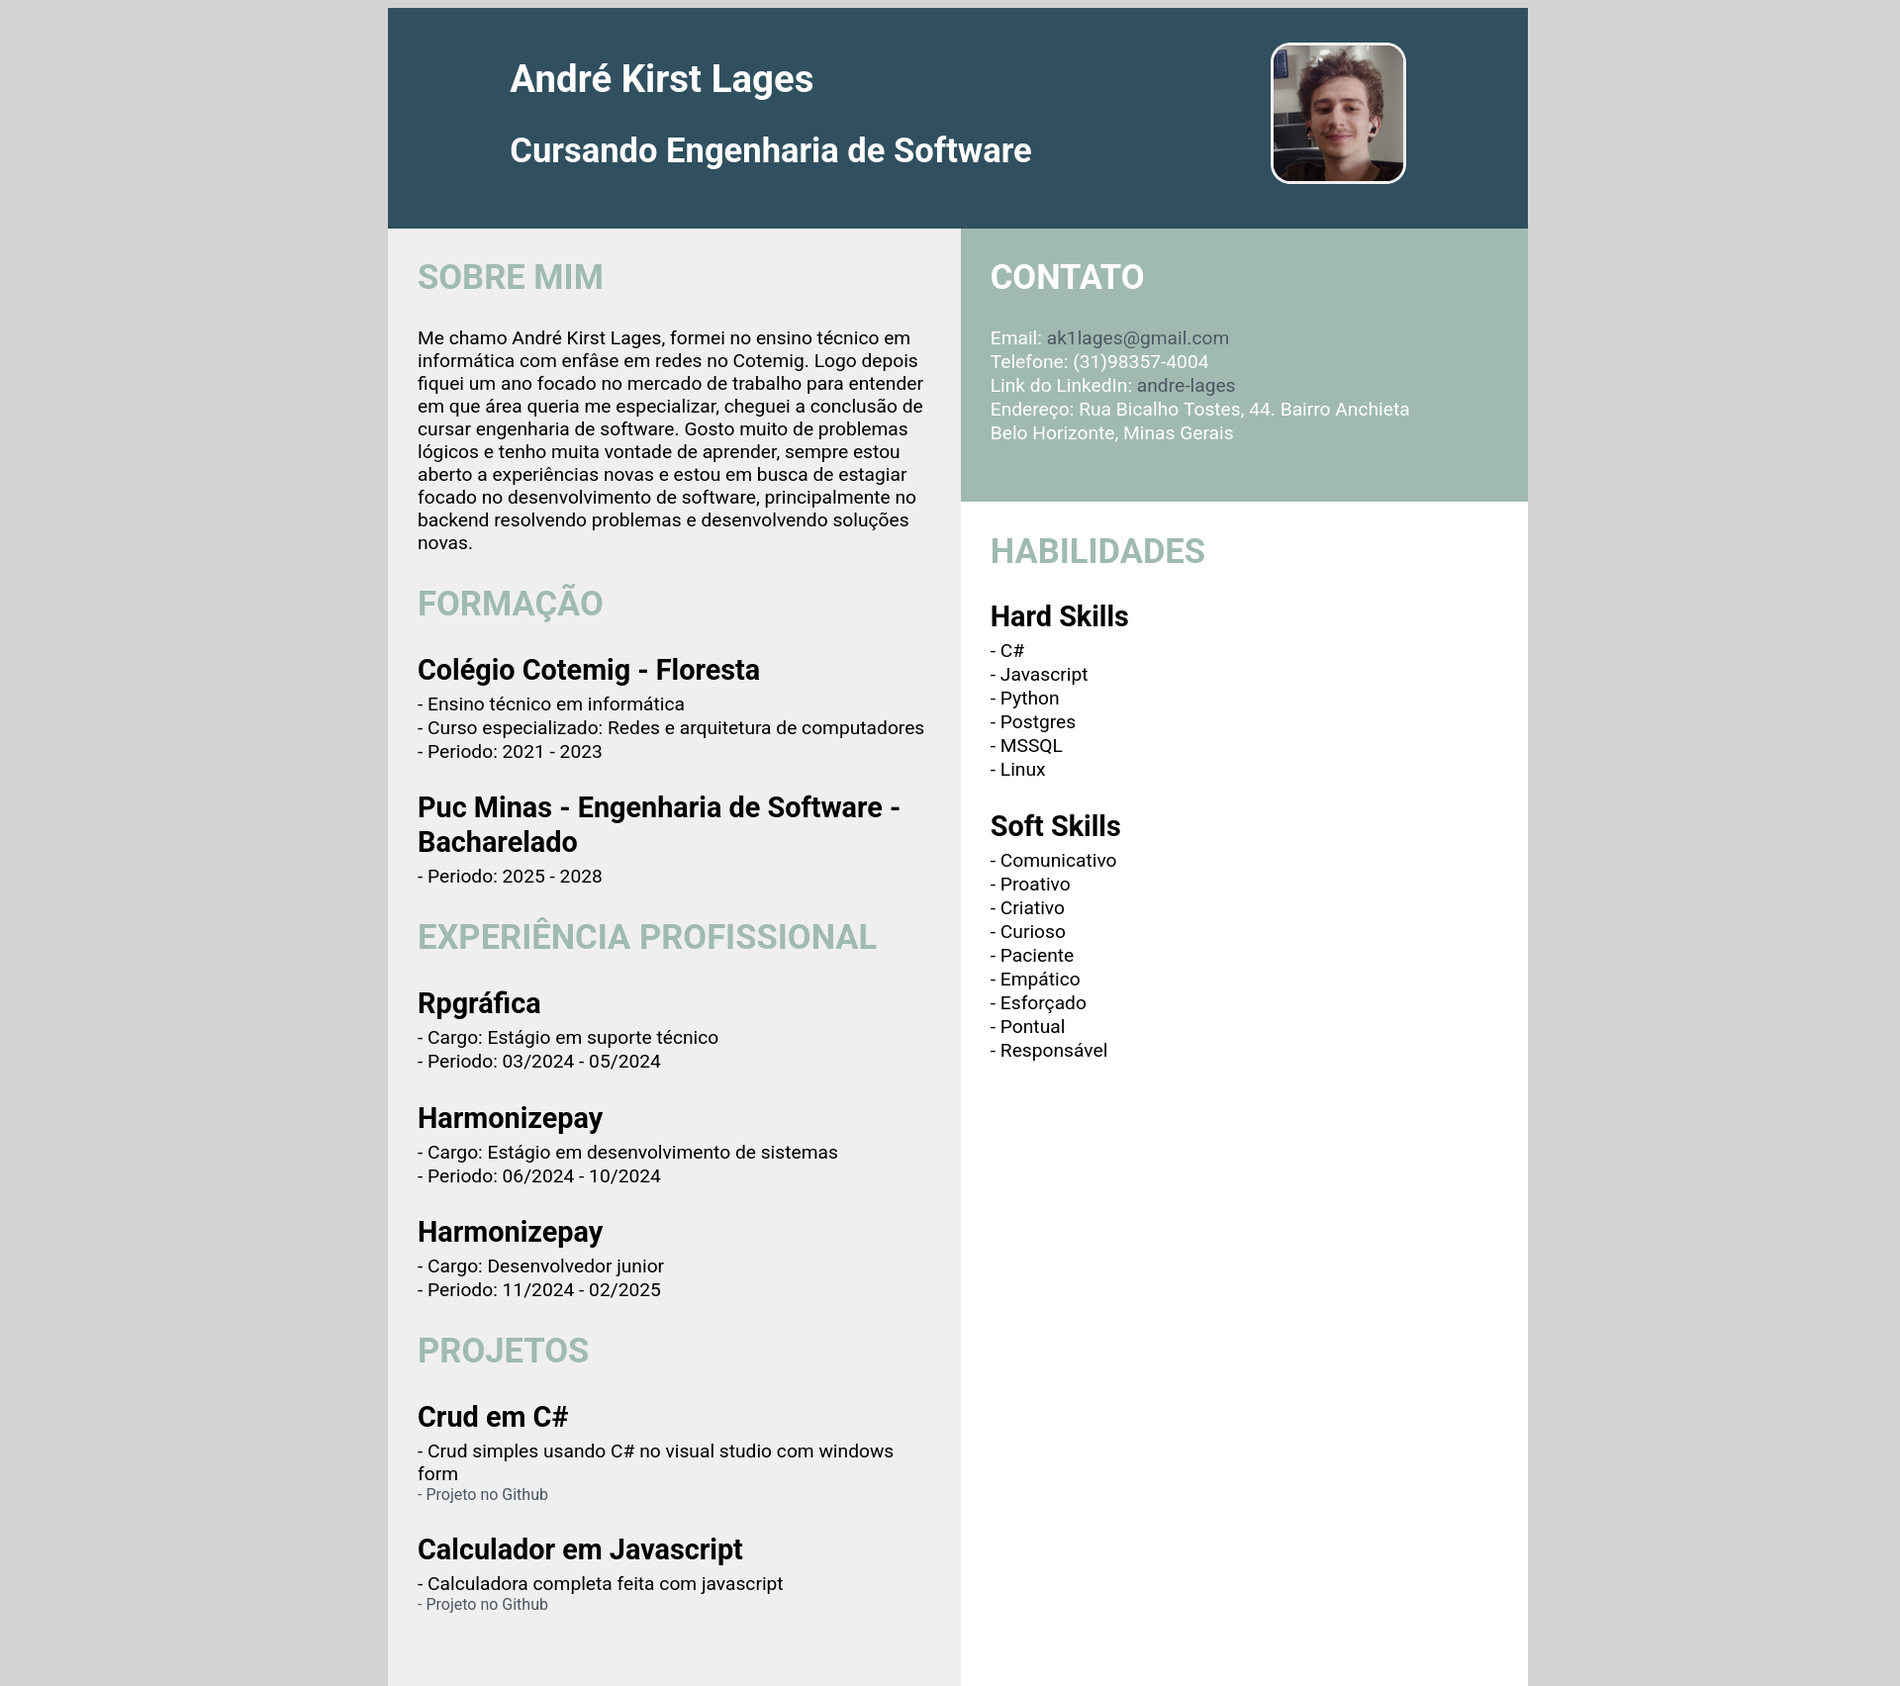
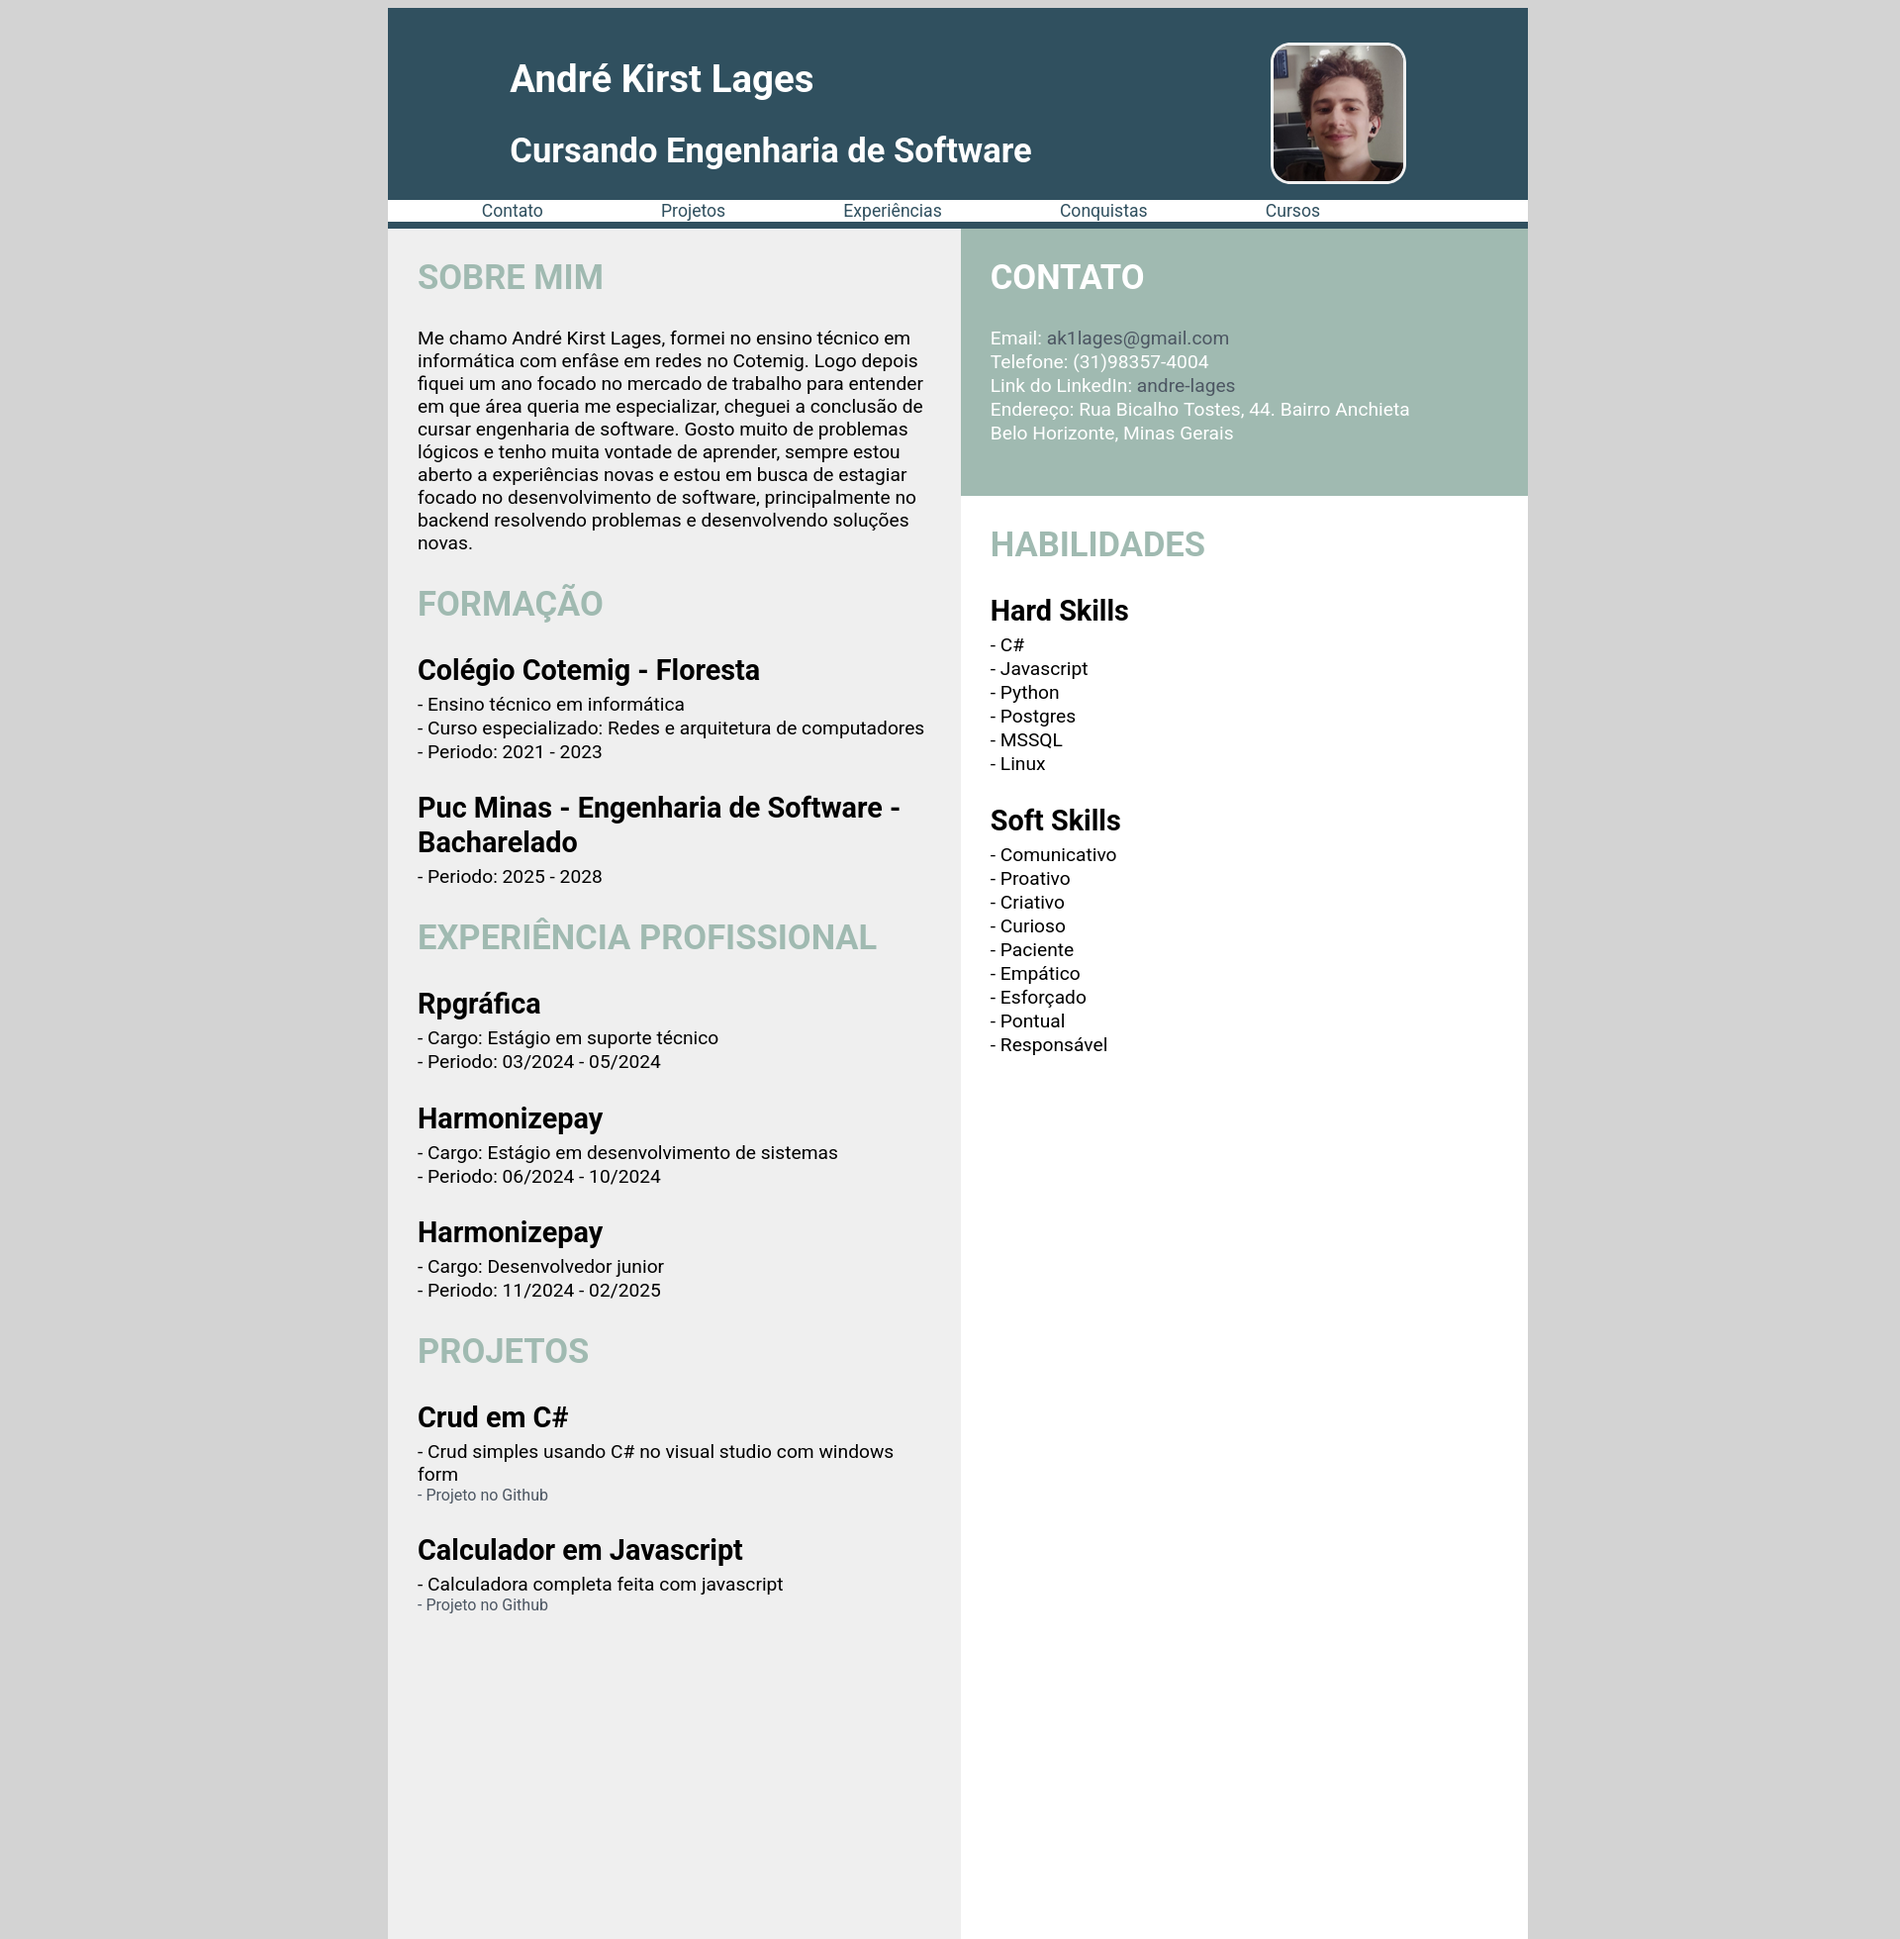
Add navbar and update site screenshot

Changed region(s): [[0.1875, 0.0, 0.8125, 0.9642], [0.4375, 0.8398, 0.4688, 0.8709], [0.4375, 0.7465, 0.4688, 0.7776]]

diff --git a/public/style.css b/public/style.css
@@ -46,6 +46,16 @@ a{
     color: #4d5763;
 }
 
+nav{
+    background-color:#ffffff;
+}
+
+.navegacao{
+    margin-right: 10%;
+    color:#30505f;
+    font-size: 1.1rem;
+}
+
 #Exp, #Contact, #Skills{
     padding-left: 30px;
     padding-right: 30px;
@@ -82,14 +92,14 @@ a{
 #Contact{
     color: #ffffff;
     width: 44.555%;
-    height: 30vh;
+    height: 25vh;
     background-color: #a0bab1;
     float: right;
 }
 
 #Skills{
     width: 44.555%;
-    height: 130vh;
+    height: 135vh;
     background-color: #ffffff;
     float: right;
 }
@@ -132,6 +142,12 @@ a{
         height: 120vh;
         background-color: #ffffff;
         float: right;
+    }
+
+    .navegacao{
+        margin-right: 10%;
+        color:#30505f;;
+        font-size: 0.8rem;
     }
 
 }

diff --git a/public/index.html b/public/index.html
@@ -18,6 +18,13 @@
         <div id="Profile_picture">
             <img id="Profile" class="responsive" src="perfil.jpg""/>
         </div>
+        <nav>
+          <a href="#" class="navegacao">Contato</a>
+          <a href="#" class="navegacao">Projetos</a>
+          <a href="#" class="navegacao">Experiências</a>
+          <a href="#" class="navegacao">Conquistas</a>
+          <a href="#" class="navegacao">Cursos</a>
+        </nav>
     </header>
 
     <div id="Exp" class="main">
